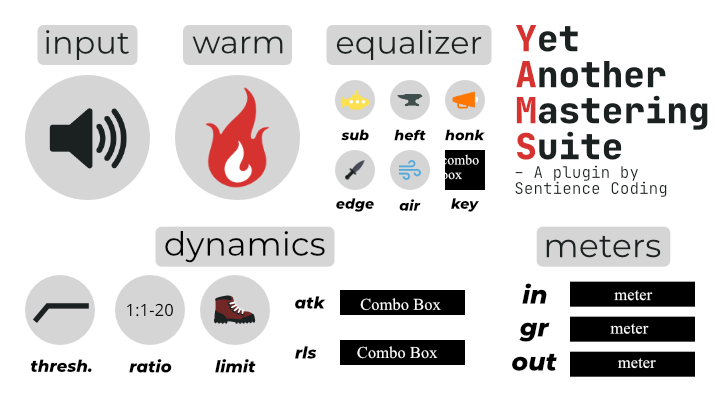
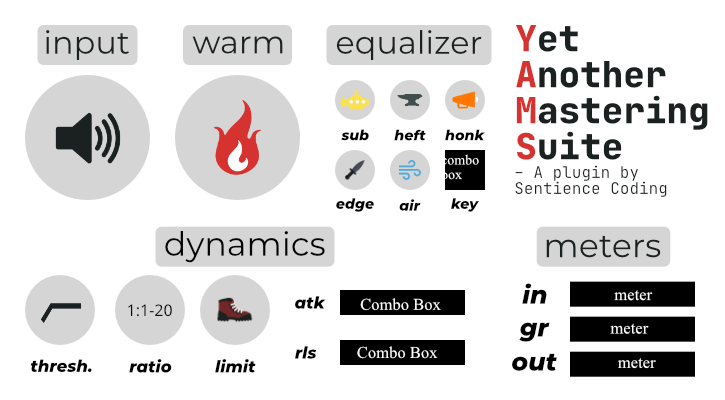
Pushing a bunch of GUI changes, and mostly done with saturation and input gain.

diff --git a/Source/PluginProcessor.cpp b/Source/PluginProcessor.cpp
@@ -20,14 +20,23 @@ YAMSAudioProcessor::YAMSAudioProcessor()
                        .withOutput ("Output", juce::AudioChannelSet::stereo(), true)
                      #endif
                        ),
-apvts(*this, nullptr, "Params", createParams())
+						apvts(*this, nullptr, "Params", createParams())
+
 #endif
+
 {
 	inputVolumeParameter = apvts.getRawParameterValue("INPUTVOLUME");
 	saturationParameter = apvts.getRawParameterValue("SATURATION");
 	subParameter = apvts.getRawParameterValue("SUBBAND");
 	lowParameter = apvts.getRawParameterValue("LOWBAND");
+	midParameter = apvts.getRawParameterValue("MIDBAND");
+	highParameter = apvts.getRawParameterValue("HIGHBAND");
+	airParameter = apvts.getRawParameterValue("AIRBAND");
+
 	threshParameter = apvts.getRawParameterValue("THRESHOLD");
+	
+	atkParameter = apvts.getRawParameterValue("ATK");
+
 }
 
 YAMSAudioProcessor::~YAMSAudioProcessor()
@@ -141,7 +150,18 @@ void YAMSAudioProcessor::processBlock (juce::AudioBuffer<float>& buffer, juce::M
     auto totalNumInputChannels  = getTotalNumInputChannels();
     auto totalNumOutputChannels = getTotalNumOutputChannels();
 
+	auto inputVolume = apvts.getRawParameterValue("INPUTVOLUME")->load();
+	auto saturation = apvts.getRawParameterValue("SATURATION")->load();
 	
+	auto subGain = apvts.getRawParameterValue("SUBBAND")->load();
+	auto lowGain = apvts.getRawParameterValue("LOWBAND")->load();
+	auto midGain = apvts.getRawParameterValue("MIDBAND")->load();
+	auto highGain = apvts.getRawParameterValue("HIGHBAND")->load();
+	auto airGain = apvts.getRawParameterValue("AIRBAND")->load();
+	
+
+//	saturationKnob.setDrive(saturation);
+//
     // In case we have more outputs than inputs, this code clears any output
     // channels that didn't contain input data, (because these aren't
     // guaranteed to be empty - they may contain garbage).
@@ -159,9 +179,13 @@ void YAMSAudioProcessor::processBlock (juce::AudioBuffer<float>& buffer, juce::M
     // interleaved by keeping the same state.
     for (int channel = 0; channel < totalNumInputChannels; ++channel)
     {
-        auto* channelData = buffer.getWritePointer (channel);
-
-        // ..do something to the data...
+		for(int n = 0; n < buffer.getNumSamples(); n++) {
+//			saturationKnob.setDrive(saturation);
+			float input = buffer.getReadPointer(channel)[n];
+			input *= Decibels::decibelsToGain(inputVolume);
+			input = saturationKnob.processSample(input, saturation, channel);
+			buffer.getWritePointer(channel)[n] = input;
+		}
     }
 }
 
@@ -204,26 +228,28 @@ juce::AudioProcessor* JUCE_CALLTYPE createPluginFilter()
     return new YAMSAudioProcessor();
 }
 
-
-//void YAMSAudioProcessor::mapThreshold(float input) {
-//	thresholdDSPValue = (input - min) / (max - min);
-//}
-
-
-
 juce::AudioProcessorValueTreeState::ParameterLayout YAMSAudioProcessor::createParams() {
 	std::vector<std::unique_ptr<RangedAudioParameter>> params;
 	
 	// Adding input slider to params vector
 	params.push_back(std::make_unique<AudioParameterFloat>("INPUTVOLUME", "Input Volume",-12.f,12.f,0.f));
 	
-	params.push_back(std::make_unique<AudioParameterFloat>("SATURATION", "Saturation",0.f,12.f,0.f));
+	params.push_back(std::make_unique<AudioParameterFloat>("SATURATION", "Saturation",0.f,3.f,0.f));
 	
 	params.push_back(std::make_unique<AudioParameterFloat>("SUBBAND", "Sub Band",-6.f,6.f,0.f));
 	
 	params.push_back(std::make_unique<AudioParameterFloat>("LOWBAND", "Low Band",-6.f,6.f,0.f));
 	
-	params.push_back(std::make_unique<AudioParameterFloat>("THRESHOLD", "Threshold",-20.f,6.f,0.f));
+	params.push_back(std::make_unique<AudioParameterFloat>("MIDBAND", "Mid Band",-6.f,6.f,0.f));
+	
+	params.push_back(std::make_unique<AudioParameterFloat>("HIGHBAND", "High Band",-6.f,6.f,0.f));
+	
+	params.push_back(std::make_unique<AudioParameterFloat>("AIRBAND", "Air Band",-6.f,6.f,0.f));
+	
+	params.push_back(std::make_unique<AudioParameterFloat>("THRESHOLD", "Threshold",-20.f,6.f,6.f));
+//	AudioParameterChoice (const String &parameterID, const String &parameterName, const StringArray &choices, int defaultItemIndex, const String &parameterLabel=String(), std::function< String(int index, int maximumStringLength)> stringFromIndex=nullptr, std::function< int(const String &text)> indexFromString=nullptr)
+	
+	params.push_back(std::make_unique<AudioParameterChoice>("ATK","Attack",StringArray ("S","M","F"), 0));
 	
 	return { params.begin(), params.end() };
 }

diff --git a/Source/PluginEditor.cpp b/Source/PluginEditor.cpp
@@ -24,12 +24,14 @@ YAMSAudioProcessorEditor::YAMSAudioProcessorEditor (YAMSAudioProcessor& p)
 	inputVolumeAttachment = std::make_unique<AudioProcessorValueTreeState::SliderAttachment>(audioProcessor.apvts,"INPUTVOLUME",inputVolumeSlider);
 	addAndMakeVisible(inputVolumeSlider);
 	
+	
 	saturationKnob.setSliderStyle(Slider::RotaryHorizontalVerticalDrag);
 	saturationKnob.setBounds(175, 75, 125, 125);
 	saturationKnob.setTextBoxStyle(juce::Slider::NoTextBox, true, 0, 0);
 	saturationKnob.setValue(0.f);
 	saturationKnob.setLookAndFeel(&largeKnobLookAndFeel);
 	saturationAttachment = std::make_unique<AudioProcessorValueTreeState::SliderAttachment>(audioProcessor.apvts,"SATURATION",saturationKnob);
+//	saturationKnob.setRange(0, 12, 1);
 	addAndMakeVisible(saturationKnob);
 
 	subKnob.setSliderStyle(Slider::RotaryHorizontalVerticalDrag);
@@ -57,7 +59,7 @@ YAMSAudioProcessorEditor::YAMSAudioProcessorEditor (YAMSAudioProcessor& p)
 	addAndMakeVisible(midKnob);
 	
 	highKnob.setSliderStyle(Slider::RotaryHorizontalVerticalDrag);
-	highKnob.setBounds(440, 75, 50, 50);
+	highKnob.setBounds(330, 145, 50, 50);
 	highKnob.setTextBoxStyle(Slider::NoTextBox, true, 0, 0);
 	highKnob.setValue(0.f);
 	highKnob.setLookAndFeel(&smallKnobLookAndFeel);
@@ -65,17 +67,29 @@ YAMSAudioProcessorEditor::YAMSAudioProcessorEditor (YAMSAudioProcessor& p)
 	addAndMakeVisible(highKnob);
 	
 	airKnob.setSliderStyle(Slider::RotaryHorizontalVerticalDrag);
-	airKnob.setBounds(440, 75, 50, 50);
+	airKnob.setBounds(385, 145, 50, 50);
 	airKnob.setTextBoxStyle(Slider::NoTextBox, true, 0, 0);
 	airKnob.setValue(0.f);
 	airKnob.setLookAndFeel(&smallKnobLookAndFeel);
 	airAttachment = std::make_unique<AudioProcessorValueTreeState::SliderAttachment>(audioProcessor.apvts,"AIRBAND",airKnob);
 	addAndMakeVisible(airKnob);
 	
+	threshKnob.setSliderStyle(Slider::RotaryHorizontalVerticalDrag);
+	threshKnob.setBounds(25, 275, 70, 70);
+	threshKnob.setTextBoxStyle(Slider::NoTextBox, true, 0, 0);
+	threshKnob.setLookAndFeel(&mediumKnobLookAndFeel);
+	threshAttachment = std::make_unique<AudioProcessorValueTreeState::SliderAttachment>(audioProcessor.apvts,"THRESHOLD",threshKnob);
+	addAndMakeVisible(threshKnob);
 	
-	
-	
-	
+
+	atkBox.setBounds(340, 290, 50, 25);
+	atkBox.addItem("S", 1);
+	atkBox.addItem("M", 2);
+	atkBox.addItem("F", 3);
+	atkBox.setSelectedId(1);
+	atkAttachment = std::make_unique<AudioProcessorValueTreeState::ComboBoxAttachment>(audioProcessor.apvts,"ATK",atkBox);
+	addAndMakeVisible(atkBox);
+
 	
 	
 	setSize (725, 400);

diff --git a/Source/components/Equalizer.h b/Source/components/Equalizer.h
@@ -9,3 +9,35 @@
 */
 
 #pragma once
+#include "Biquad.h"
+
+class Equalizer {
+public:
+	Equalizer();
+	float processSample(float input, float channel);
+	
+	void setSubFreq(float freq);
+	void setLowFreq(float freq);
+	void setMidFreq(float freq);
+	void setHighFreq(float freq);
+	void setAirFreq(float freq);
+	void setFs(int Fs);
+private:
+	Biquad subHPF = Biquad(Biquad::FilterType::HPF,1.4142f);
+	Biquad subPeakFilter = Biquad(Biquad::FilterType::PEAK,1.4142f);
+	
+	Biquad lowPeakFilter = Biquad(Biquad::FilterType::PEAK,1.4142f);
+	Biquad midPeakFilter = Biquad(Biquad::FilterType::PEAK,1.4142f);
+	Biquad highPeakFilter = Biquad(Biquad::FilterType::PEAK,1.4142f);
+	Biquad airShelf = Biquad(Biquad::FilterType::HSHELF,1.4142f);
+	
+	
+	float Fs = 48000.f;
+//	float arr[4];
+//	arr[0] = {16.35f,17.32f,18.35f,19.45f,20.60f,21.83f,23.12f,24.50f,25.96f,27.50f,29.14f,30.87f};
+//	arr[1] = {65.41f,69.30f,73.42f,77.78f,82.41f,87.31f,92.50f,98.00f,103.83f,110.00f,116.54f,123.47f};
+//	arr[2] = {1046.50f,1108.73f,1174.66f,1174.66f,1318.51f,1396.91f,1479.98f,1567.98f,1661.22f,1760.00f,1864.66f,1975.53f};
+//	arr[3] ={2093.00f,2217.46f,2349.32f,2489.02f,2637.02f,2793.83f,2959.96f,3135.96f,3322.44f,3520.00f,3729.31f,3951.07f};
+	
+};
+

diff --git a/Source/PluginEditor.h b/Source/PluginEditor.h
@@ -11,6 +11,7 @@
 #include <JuceHeader.h>
 #include "PluginProcessor.h"
 #include "assets/LargeKnob.h"
+#include "assets/MediumKnob.h"
 #include "assets/SmallKnob.h"
 
 //==============================================================================
@@ -33,7 +34,6 @@ private:
     // access the processor object that created it.
 	
 	Slider inputVolumeSlider;
-	
 	Slider saturationKnob;
 	
 	Slider subKnob;
@@ -45,6 +45,9 @@ private:
 	Slider threshKnob;
 	Slider ratioKnob;
 	Slider limiterKnob;
+	Slider slottedKnob;
+	
+	ComboBox atkBox;
 
 	
 //	CustomLookAndFeel customLookAndFeel;
@@ -63,6 +66,9 @@ private:
 	std::unique_ptr<AudioProcessorValueTreeState::SliderAttachment> limiterAttachment;
 	
 	
+	std::unique_ptr<AudioProcessorValueTreeState::ComboBoxAttachment> atkAttachment;
+	
+	
 	
 //	myLookAndFeelBlueKnob myLookAndFeelBlueKnob;
 	
@@ -71,6 +77,7 @@ private:
 //	WhiteKnob saturationKnobLookAndFeel;
 //
 	LargeKnob largeKnobLookAndFeel;
+	MediumKnob mediumKnobLookAndFeel;
 	SmallKnob smallKnobLookAndFeel;
     YAMSAudioProcessor& audioProcessor;
 	

diff --git a/Source/PluginProcessor.h b/Source/PluginProcessor.h
@@ -9,6 +9,8 @@
 #pragma once
 
 #include <JuceHeader.h>
+#include "components/Saturation.h"
+#include "components/Equalizer.h"
 
 //==============================================================================
 /**
@@ -53,9 +55,10 @@ public:
     void getStateInformation (juce::MemoryBlock& destData) override;
     void setStateInformation (const void* data, int sizeInBytes) override;
 
-	AudioProcessorValueTreeState apvts;
+	Saturation saturationKnob;
+	Equalizer eq;
 	
-	void mapThreshold(float input);
+	AudioProcessorValueTreeState apvts;
 	
 private:
 	
@@ -63,11 +66,13 @@ private:
 	std::atomic<float>* saturationParameter = nullptr;
 	std::atomic<float>* subParameter = nullptr;
 	std::atomic<float>* lowParameter = nullptr;
+	std::atomic<float>* midParameter = nullptr;
+	std::atomic<float>* highParameter = nullptr;
+	std::atomic<float>* airParameter = nullptr;
+	
 	std::atomic<float>* threshParameter = nullptr;
 	
-	
-	float min = -24;
-	float max = 6.f;
+	std::atomic<float>* atkParameter = nullptr;
 	
 	float thresholdDSPValue;
 

diff --git a/Source/components/Saturation.cpp b/Source/components/Saturation.cpp
@@ -9,3 +9,29 @@
 */
 
 #include "Saturation.h"
+//#include "Biquad.h"
+
+Saturation::Saturation(){}
+
+float Saturation::processSample(float input,float drive, int channel) {
+	drive = Decibels::decibelsToGain(drive);
+
+	lowShelf.setAmpdB(drive*.25);
+	lowPass.setFreq(20000.f-(1000*drive));
+	
+	float output = cubicDist(input,drive/30);
+	output = cubicDist(output, drive/40);
+	
+	output = lowShelf.processSample(output, channel);
+	output = lowPass.processSample(output, channel);
+	output *= juce::Decibels::decibelsToGain(12);
+	return output;
+}
+
+float Saturation::atandist(float sample, float drive) {
+	return (2.f/M_PI) * atan( drive * sample );
+}
+
+float Saturation::cubicDist(float sample, float drive) {
+	return (sample - .2 * std::pow( sample, 3 ));
+}

diff --git a/Source/assets/MediumKnob.h b/Source/assets/MediumKnob.h
@@ -1,7 +1,7 @@
 /*
   ==============================================================================
 
-    BlueKnobClass.h
+    MediumKnob.h
     Created: 25 Apr 2021 11:25:21pm
     Author:  Adam Murdock
 
@@ -12,9 +12,9 @@
 
 #include "../JuceLibraryCode/JuceHeader.h"
 
-class LargeKnob : public LookAndFeel_V4
+class MediumKnob : public LookAndFeel_V4
 {
 public:
-	Image sprite = ImageCache::getFromMemory(BinaryData::LargeKnob_png, BinaryData::LargeKnob_pngSize);
+	Image sprite = ImageCache::getFromMemory(BinaryData::MediumKnob_png, BinaryData::MediumKnob_pngSize);
 	 void drawRotarySlider (Graphics& g, int x, int y, int width, int height, float sliderPos, const float rotaryStartAngle, const float rotaryEndAngle, Slider& slider);
 };

diff --git a/Source/components/Equalizer.cpp b/Source/components/Equalizer.cpp
@@ -9,3 +9,26 @@
 */
 
 #include "Equalizer.h"
+
+Equalizer::Equalizer(){}
+
+float Equalizer::processSample(float input, float channel) {
+	float inputdB = Decibels::decibelsToGain(input);
+	
+	input = subHPF.processSample(input, channel);
+	input = subPeakFilter.processSample(input, channel);
+	
+	input = lowPeakFilter.processSample(input, channel);
+	input = midPeakFilter.processSample(input, channel);
+	input = highPeakFilter.processSample(input, channel);
+	airShelf.setFreq(20000);
+	input = airShelf.processSample(input, channel);
+	
+	
+//	float output = input - (Decibels::decibelsToGain(input)-inputdB);
+
+	return (input - (Decibels::decibelsToGain(input)-inputdB));
+}
+void Equalizer::setFs(int Fs) {
+	this->Fs = Fs;
+}

diff --git a/Source/components/Saturation.h b/Source/components/Saturation.h
@@ -9,3 +9,23 @@
 */
 
 #pragma once
+
+#include <math.h>
+#include "../JuceLibraryCode/JuceHeader.h"
+#include "Biquad.h"
+
+class Saturation
+{
+public:
+	Saturation();
+	
+	float processSample(float input, float drive, int channel);
+	float atandist(float sample, float drive);
+	float cubicDist(float sample, float drive);
+	
+	Biquad highPass = Biquad(Biquad::FilterType::HPF,1.4142f);
+	Biquad lowShelf = Biquad(Biquad::FilterType::LSHELF,1.4142f);
+	Biquad lowPass = Biquad(Biquad::FilterType::LPF,1.4142f);
+	
+private:
+};

diff --git a/Source/assets/MediumKnob.cpp b/Source/assets/MediumKnob.cpp
@@ -8,9 +8,9 @@
   ==============================================================================
 */
 
-#include "LargeKnob.h"
+#include "MediumKnob.h"
 
-void LargeKnob::drawRotarySlider (Graphics& g,
+void MediumKnob::drawRotarySlider (Graphics& g,
                                       int x,
                                       int y,
                                       int width,
